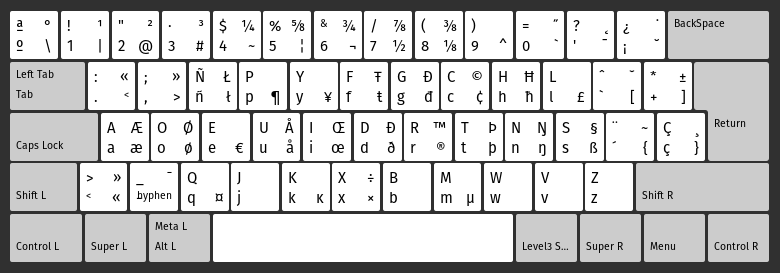
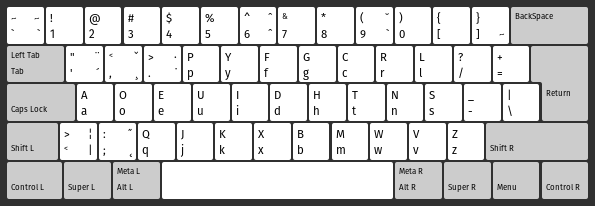
update

Changed region(s): [[0.0, 0.0291, 0.9983, 0.9903], [0.0, 0.4951, 0.0908, 0.5534]]

diff --git a/keyboard/script.js b/keyboard/script.js
@@ -1,26 +1,23 @@
 const keys = `
-º1234567890'¡
-ª!"·$%&/()=?¿
-\\|@#~¦¬½⅛^\`˘
-¹²³¼⅝¾⅞⅜˝˛˙
-.,ñpyfgchl\`+ç
-:;ÑPYFGCHL^*Ç
-<>ł¶¥ŧđ¢ħ£[]}
-«»ŁŦĐ©Ħˇ±¸
-aoeuidrtns'
-AOEUIDRTNS"
-æø€åœð®þŋß{
-ÆØÅŒÐ™ÞŊ§~
-<-qjkxbmwvz
->_QJKXBMWVZ
-«¤ĸ×µ
-»¯÷
-āēīōū
-ăĕĭŏŭ
-âêîôû
+\`1234567890[]
+',.pyfgcrl/=\\
+aoeuidhtns-
+<;qjkxbmwvz
+~!@#$%^&*(){}
+"<>PYFGCRL?+|
+AOEUIDHTNS_
+>:QJKXBMWVZ
+¸|˛˘¦˝
 àèìòù
+ãẽĩõũñ
 áéíóú
-äëïöü`.replaceAll("\n", "");
+äëïöü
+ąęįǫų
+ăĕĭŏŭ
+őű
+ç
+ė
+`.replace("\n", "");
 const canvas = document.getElementById("canvas");
 const ctx = canvas.getContext("2d");
 const box = window.innerHeight / 4;
@@ -33,8 +30,8 @@ canvas.height = window.innerHeight;
 function makeKeyboard() {
   img.src = "keyboard.png";
   img.onload = (_) => {
-    const h = box * 2;
-    const w = (780 / 270) * h;
+    const h = Math.min(200, box * 1.5);
+    const w = Math.min(590, (window.innerWidth / 200 / 1.3) * h);
     ctx.drawImage(img, (canvas.width - w) / 2, canvas.height - h, w, h);
   };
 }

diff --git a/keyboard/index.html b/keyboard/index.html
@@ -3,7 +3,7 @@
     <head>
         <meta charset="UTF-8" />
         <meta name="viewport" content="width=device-width, initial-scale=1.0" />
-        <title>Spanish (Dvorak) | Keyboard</title>
+        <title>Dvorak | Keyboard</title>
         <style>
             canvas,
             input {
